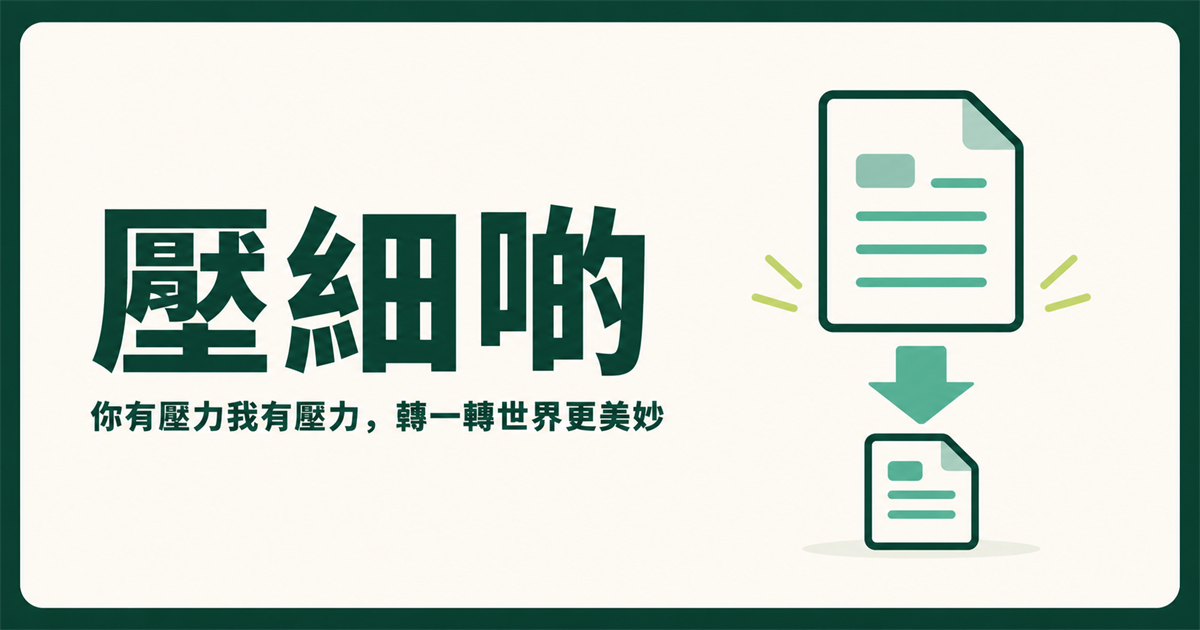
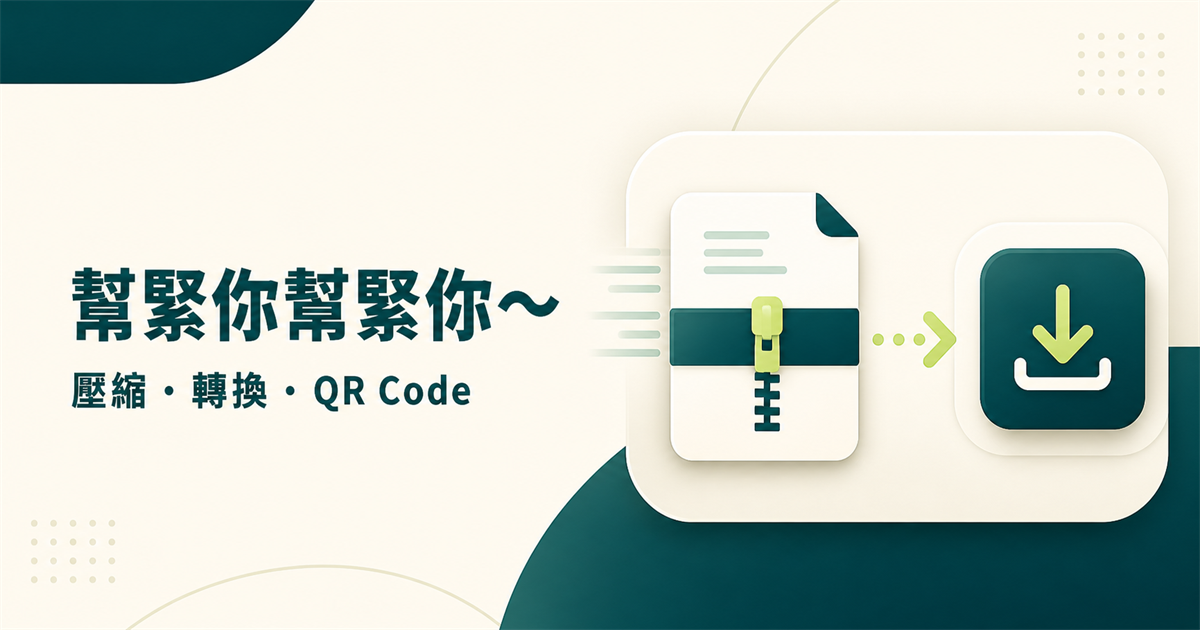
Rename site and refresh headline

diff --git a/app/layout.tsx b/app/layout.tsx
@@ -13,17 +13,17 @@ const geistMono = Geist_Mono({
 });
 
 export const metadata: Metadata = {
-  metadataBase: new URL('https://ya-sai-di.davidlui.chatgpt.site'),
-  title: '你有壓力我有壓力，轉一轉世界更美妙。｜壓細啲',
+  metadataBase: new URL('https://bong-gan-nei.davidlui.chatgpt.site'),
+  title: '幫緊你幫緊你～｜壓細啲',
   description:
     '在瀏覽器內壓縮 PDF 及圖片，互轉 JPEG、JPG、HEIC、WebP。亦支援網頁 QR Code。檔案不會上傳。',
   openGraph: {
-    title: '你有壓力我有壓力，轉一轉世界更美妙。',
+    title: '幫緊你幫緊你～',
     description:
       '免費壓縮 PDF 及圖片，轉換 JPEG、JPG、WebP 和 HEIC，亦可生成網頁 QR Code。全部在瀏覽器內處理。',
     type: 'website',
     locale: 'zh_HK',
-    url: 'https://ya-sai-di.davidlui.chatgpt.site',
+    url: 'https://bong-gan-nei.davidlui.chatgpt.site',
     images: [
       {
         url: '/og.png',
@@ -35,7 +35,7 @@ export const metadata: Metadata = {
   },
   twitter: {
     card: 'summary_large_image',
-    title: '你有壓力我有壓力，轉一轉世界更美妙。',
+    title: '幫緊你幫緊你～',
     description: '免費壓縮及轉換 PDF、圖片，檔案不會上傳。',
     images: ['/og.png'],
   },

diff --git a/app/page.tsx b/app/page.tsx
@@ -652,10 +652,7 @@ export default function Home() {
               </span>
             </div>
             <h1 className="text-balance text-4xl font-bold tracking-[-0.045em] sm:text-5xl lg:text-[58px] lg:leading-[1.02]">
-              你有壓力我有壓力，
-              <span className="text-[color:var(--brand)]">
-                轉一轉世界更美妙。
-              </span>
+              <span className="text-[color:var(--brand)]">幫緊你幫緊你～</span>
             </h1>
             <p className="mt-4 max-w-2xl text-base leading-7 text-muted-foreground sm:text-lg">
               壓縮相片和 PDF，互轉
